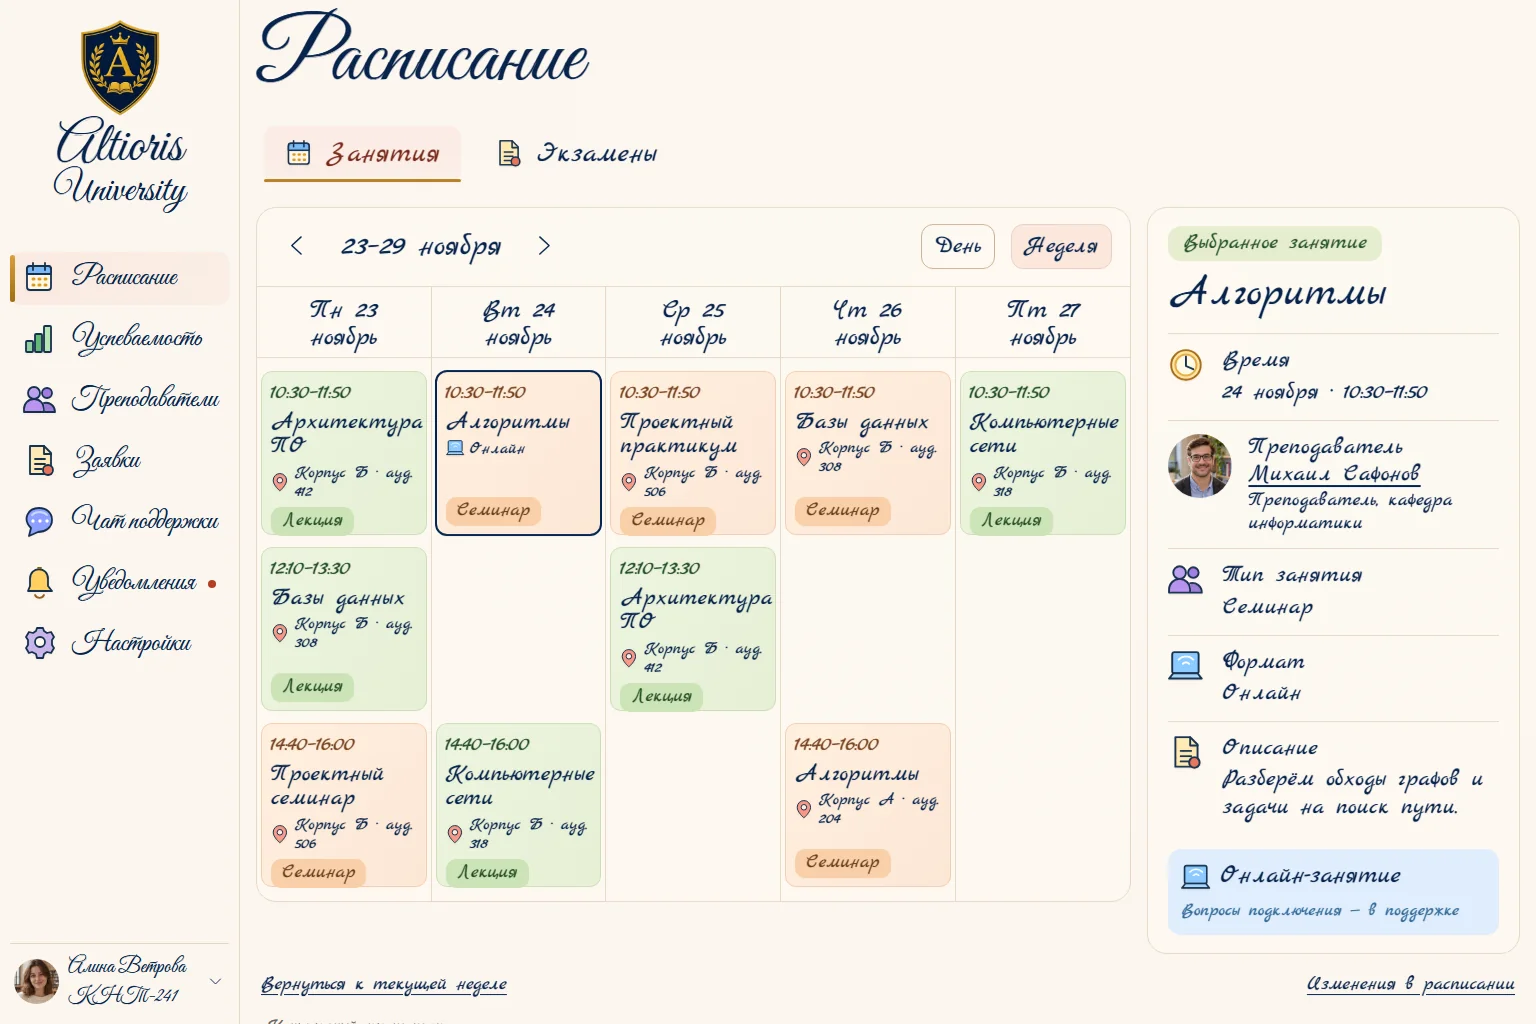
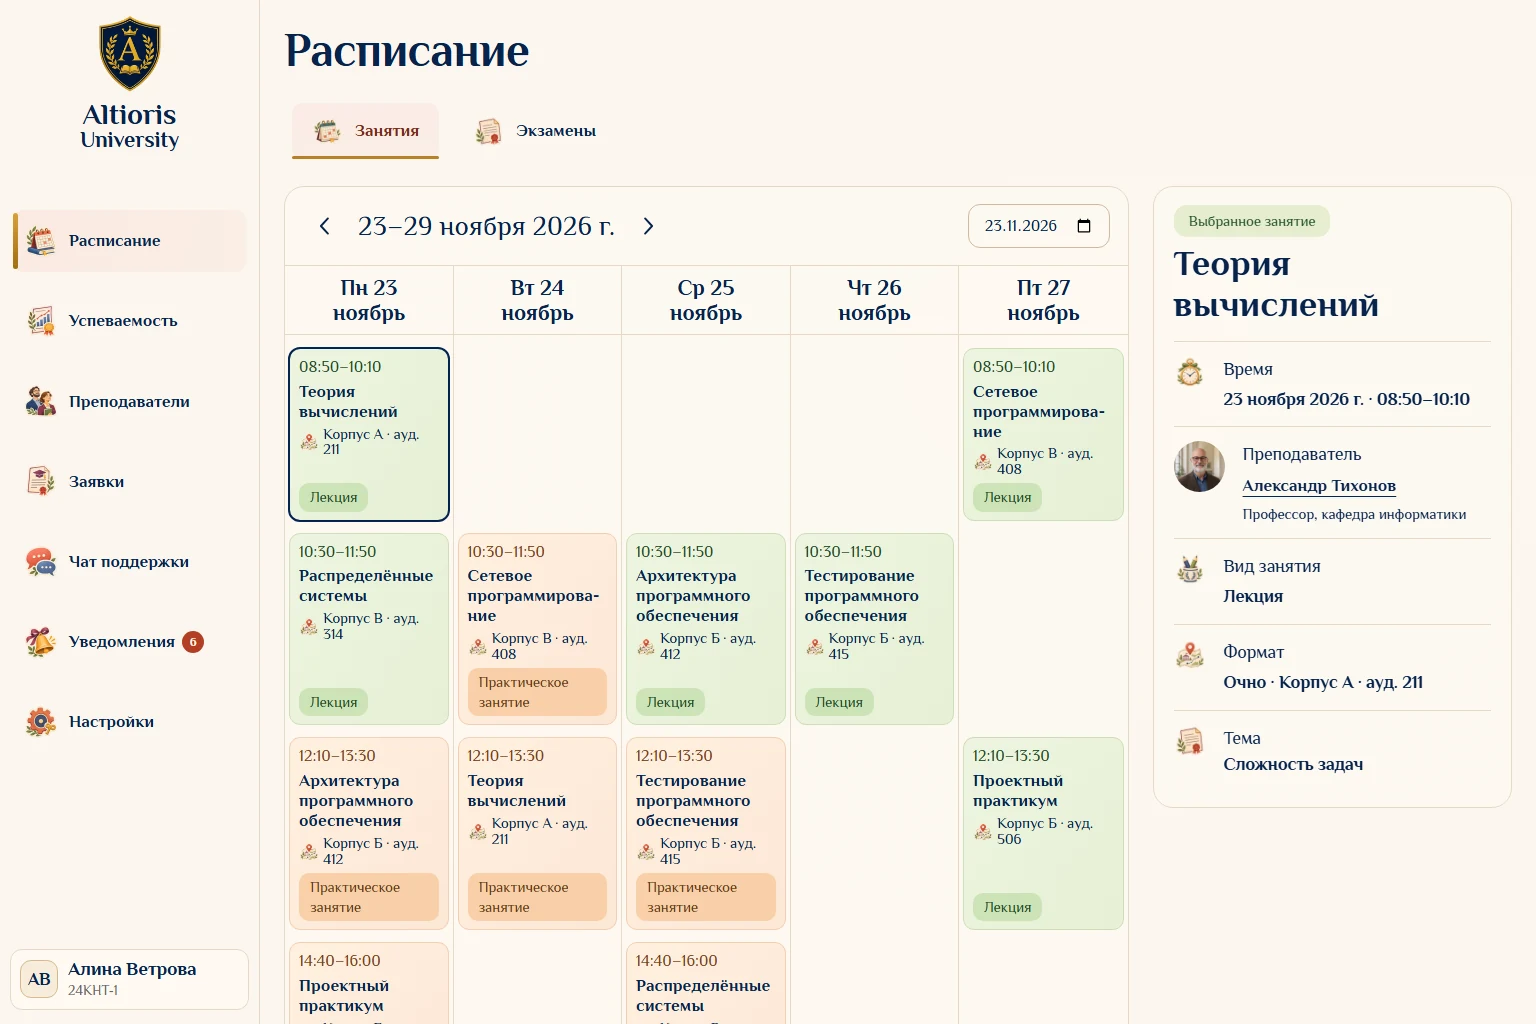
Capture the current portal on desktop and mobile

diff --git a/docs/images/README.md b/docs/images/README.md
@@ -1,0 +1,13 @@
+# Галерея Altioris
+
+Снимки сделаны 21 ноября 2026 года в Chromium из текущей реализации с отдельной SQLite-базой и вымышленными данными. Десктопные снимки — 1536 × 1024 CSS пикселя, мобильные — 360 × 800. Зафиксированное время позволило показать разные этапы обработки документов в одном наборе кадров.
+
+| Десктоп | Мобильный экран |
+| --- | --- |
+| [Расписание недели и детали занятия](schedule.webp) | [Расписание по дням](schedule-mobile.webp) |
+| [Заявки и готовая справка](requests.webp) | [История заявки в нижней панели](requests-mobile.webp) |
+| [Преподаватели и профиль](teachers.webp) | |
+| [Чат поддержки](support.webp) | |
+| [Настройки интерфейса](settings.webp) | |
+
+[Открыть демо Altioris](https://31-77-222-138.sslip.io/) · [Утверждённые дизайн-референсы](../references/README.md).
